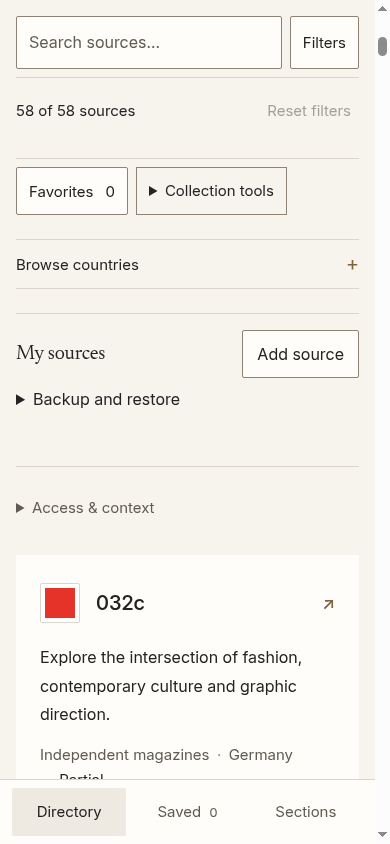
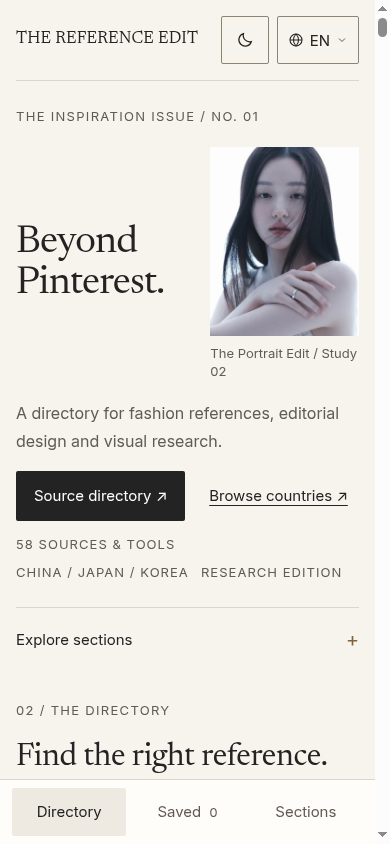
Publish website from 214faeb13828f987aba18c8005148561108aefd0

diff --git a/index.html b/index.html
@@ -429,7 +429,16 @@ summary:hover{background:var(--soft)}
 .collection-tools{min-width:0;max-width:100%}.collection-tools>summary{padding:10px 12px;border:1px solid var(--control-line);min-height:var(--control-height);box-sizing:border-box;font-size:var(--text-small)}.collection-tools[open]{flex-basis:100%}.collection-tool-actions{display:flex;flex-wrap:wrap;gap:12px;margin-top:12px}.collection-tool-actions .collection-note{flex-basis:100%;margin:0;max-width:70ch}
 .directory-context{margin-bottom:var(--space-3);font-size:var(--text-small);color:var(--muted)}.directory-context>summary{min-height:var(--control-height);display:list-item;align-content:center;padding-block:8px;box-sizing:border-box}.directory-context .comparison-key{margin-top:12px}
 @media(max-width:639px){
- .hero{padding:24px 0;gap:16px}.hero .cover-line{display:none}.hero-actions{margin-top:16px}.cover-kicker{margin-top:12px;gap:6px 12px}.cover-image{display:grid;grid-template-columns:88px minmax(0,1fr);align-items:end;gap:12px}.cover-image img{width:88px;height:112px;object-fit:cover}.cover-image figcaption{padding:0}
+ .hero{container-type:inline-size;grid-template-columns:minmax(0,1.2fr) minmax(0,1fr);padding:24px 0;column-gap:16px;row-gap:0;align-items:start}
+ .cover-copy{display:contents}.cover-copy>.eyebrow{grid-column:1/-1;grid-row:1;margin-bottom:20px}
+ html .hero .cover-copy>h1{grid-column:1;grid-row:2;align-self:center;font-size:clamp(2rem,10vw,3.5rem);margin:0;overflow-wrap:anywhere}
+ .cover-visual{grid-column:2;grid-row:2}.cover-image{display:block}.cover-image img{width:100%;height:auto}.cover-image figcaption{padding-top:8px}
+ .hero .cover-line{display:none}.hero .cover-copy>p:not(.cover-line){grid-column:1/-1;margin:20px 0 0}
+ .hero-actions a{white-space:normal}.hero-actions{grid-column:1/-1;margin-top:16px}.cover-kicker{grid-column:1/-1;margin-top:12px;gap:6px 12px}
+ /* Stack the cover when enlarged text leaves too little room for two columns. */
+ @container(max-width:16rem){
+  html .hero .cover-copy>h1{grid-column:1/-1}.cover-visual{grid-column:1/-1;grid-row:3}.cover-image{max-width:192px;margin-top:16px}
+ }
  #directory{padding-top:24px}.section-top{margin-bottom:20px}.collection-controls{margin-top:8px;padding-top:8px}#my-sources{margin:16px 0;padding:16px 0}.is-empty>.personal-note,.is-empty>#personal-status{display:none}#my-sources.is-empty .personal-heading{margin-bottom:8px}
 }
 </style><meta name="apple-mobile-web-app-title" content="The Reference Edit"><script>if(/^https?:$/.test(location.protocol)){for(const [rel,href] of [["manifest","/the-reference-edit/manifest.webmanifest"],["apple-touch-icon","/the-reference-edit/icons/apple-touch-icon.png"]]){const link=document.createElement("link");link.rel=rel;link.href=href;document.head.append(link);}}</script></head><body><!-- Bundled Newsreader and Inter font licenses:

diff --git a/sw.js b/sw.js
@@ -1,5 +1,5 @@
 // Version the offline shell whenever index.html or its app assets change.
-const CACHE='reference-edit-pages-shell-db47e5d206e9f55d95414096babdda39a3ced193';
+const CACHE='reference-edit-pages-shell-214faeb13828f987aba18c8005148561108aefd0';
 // Only the cover and favicon are needed for the first offline paint. Source logos cache on demand.
 const SHELL=['/the-reference-edit/index.html','/the-reference-edit/manifest.webmanifest','/the-reference-edit/favicon.svg','/the-reference-edit/icons/icon-192.png','/the-reference-edit/icons/icon-512.png','/the-reference-edit/icons/maskable-512.png','/the-reference-edit/icons/apple-touch-icon.png','/the-reference-edit/images/image-85cfa79ee7373f6f.svg','/the-reference-edit/images/image-d75e09331c4509f9.jpg','/the-reference-edit/fonts/font-8a08d13f8a6c0d51.ttf','/the-reference-edit/fonts/font-29160a80ff49ddca.ttf'];
 // Hosting may redirect /index.html to /. Store a fresh response so navigation can reuse it safely.
